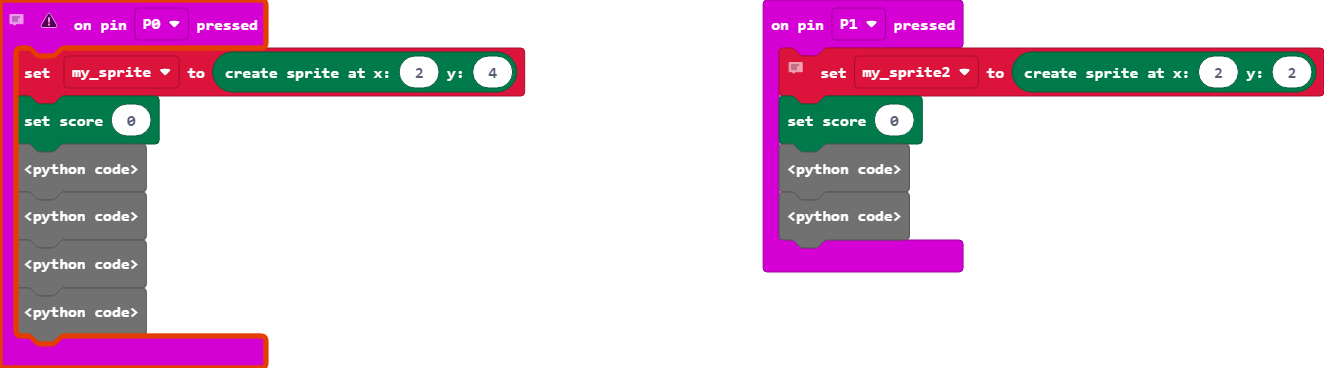
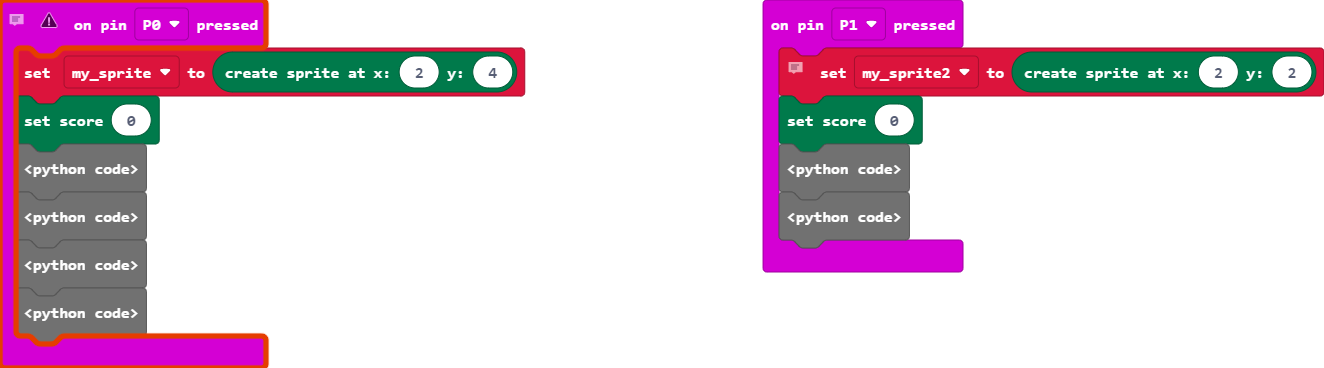
Update main.blocks, main.ts, main.py

diff --git a/main.ts b/main.ts
@@ -1,32 +1,30 @@
-basic.showString("0=Marsattack")
-basic.showString("1=Snapthedot")
-input.onPinPressed(TouchPin.P0, function on_pin_pressed_p0() {
-    //  mars attack
-    let ennemie : game.LedSprite = null
-    let my_sprite : game.LedSprite = null
+let my_sprite: game.LedSprite = null
+let my_sprite2: game.LedSprite = null
+// mars attack
+input.onPinPressed(TouchPin.P0, function () {
     my_sprite = game.createSprite(2, 4)
     game.setScore(0)
     input.onButtonPressed(Button.A, function on_button_pressed_a() {
         my_sprite.change(LedSpriteProperty.X, -1)
     })
-    input.onButtonPressed(Button.B, function on_button_pressed_b() {
+input.onButtonPressed(Button.B, function on_button_pressed_b() {
         my_sprite.change(LedSpriteProperty.X, 1)
     })
-    basic.forever(function on_forever() {
-        let ennemie = game.createSprite(randint(0, 4), 0)
-        ennemie.set(LedSpriteProperty.Brightness, 50)
+basic.forever(function on_forever() {
+        let ennemie2 = game.createSprite(randint(0, 4), 0)
+        ennemie2.set(LedSpriteProperty.Brightness, 50)
         basic.pause(200)
         for (let index2 = 0; index2 < 4; index2++) {
-            ennemie.change(LedSpriteProperty.Y, 1)
+            ennemie2.change(LedSpriteProperty.Y, 1)
             basic.pause(800)
         }
-        if (ennemie.isTouchingEdge()) {
+        if (ennemie2.isTouchingEdge()) {
             game.gameOver()
         }
         
-        ennemie.delete()
+        ennemie2.delete()
     })
-    input.onButtonPressed(Button.AB, function on_button_pressed_ab() {
+input.onButtonPressed(Button.AB, function on_button_pressed_ab() {
         let bullet = game.createSprite(my_sprite.get(LedSpriteProperty.X), 4)
         bullet.set(LedSpriteProperty.Brightness, 50)
         for (let index = 0; index < 4; index++) {
@@ -41,21 +39,21 @@ input.onPinPressed(TouchPin.P0, function on_pin_pressed_p0() {
         }
     })
 })
-input.onPinPressed(TouchPin.P1, function on_pin_pressed_p1() {
-    //  snap the dot
-    let my_sprite = game.createSprite(2, 2)
+input.onPinPressed(TouchPin.P1, function () {
+    // snap the dot
+    my_sprite2 = game.createSprite(2, 2)
     game.setScore(0)
     input.onButtonPressed(Button.A, function on_button_pressed_a2() {
-        if (my_sprite.get(LedSpriteProperty.X) == 2) {
+        if (my_sprite2.get(LedSpriteProperty.X) == 2) {
             game.addScore(1)
         } else {
             game.gameOver()
         }
         
     })
-    basic.forever(function on_forever2() {
-        my_sprite.move(1)
-        my_sprite.ifOnEdgeBounce()
+basic.forever(function on_forever2() {
+        my_sprite2.move(1)
+        my_sprite2.ifOnEdgeBounce()
         basic.pause(300)
     })
 })

diff --git a/main.py b/main.py
@@ -1,9 +1,4 @@
-basic.show_string("0=Marsattack")
-basic.show_string("1=Snapthedot")
-
-def on_pin_pressed_p0():# mars attack
-    ennemie: game.LedSprite = None
-    my_sprite: game.LedSprite = None
+def on_pin_pressed_p0():
     my_sprite = game.create_sprite(2, 4)
     game.set_score(0)
     
@@ -11,9 +6,11 @@ def on_pin_pressed_p0():# mars attack
         my_sprite.change(LedSpriteProperty.X, -1)
     input.on_button_pressed(Button.A, on_button_pressed_a)
     
+    
     def on_button_pressed_b():
         my_sprite.change(LedSpriteProperty.X, 1)
     input.on_button_pressed(Button.B, on_button_pressed_b)
+    
     
     def on_forever():
         ennemie = game.create_sprite(randint(0, 4), 0)
@@ -25,9 +22,10 @@ def on_pin_pressed_p0():# mars attack
         if ennemie.is_touching_edge():
             game.game_over()
         ennemie.delete()
-    basic.forever(on_forever)  
-
+    basic.forever(on_forever)
+    
     def on_button_pressed_ab():
+        global ennemie
         bullet = game.create_sprite(my_sprite.get(LedSpriteProperty.X), 4)
         bullet.set(LedSpriteProperty.BRIGHTNESS, 50)
         for index in range(4):
@@ -38,24 +36,27 @@ def on_pin_pressed_p0():# mars attack
                 bullet.delete()
                 game.add_score(1)
     input.on_button_pressed(Button.AB, on_button_pressed_ab)
-
+    
 input.on_pin_pressed(TouchPin.P0, on_pin_pressed_p0)
 
-def on_pin_pressed_p1():# snap the dot
-    my_sprite = game.create_sprite(2, 2)
+def on_pin_pressed_p1():
+    global my_sprite
+    # snap the dot
+    my_sprite2 = game.create_sprite(2, 2)
     game.set_score(0)
     
     def on_button_pressed_a2():
-        if my_sprite.get(LedSpriteProperty.X) == 2:
+        if my_sprite2.get(LedSpriteProperty.X) == 2:
             game.add_score(1)
         else:
             game.game_over()
     input.on_button_pressed(Button.A, on_button_pressed_a2)
     
+    
     def on_forever2():
-        my_sprite.move(1)
-        my_sprite.if_on_edge_bounce()
+        my_sprite2.move(1)
+        my_sprite2.if_on_edge_bounce()
         basic.pause(300)
     basic.forever(on_forever2)
-
+    
 input.on_pin_pressed(TouchPin.P1, on_pin_pressed_p1)
